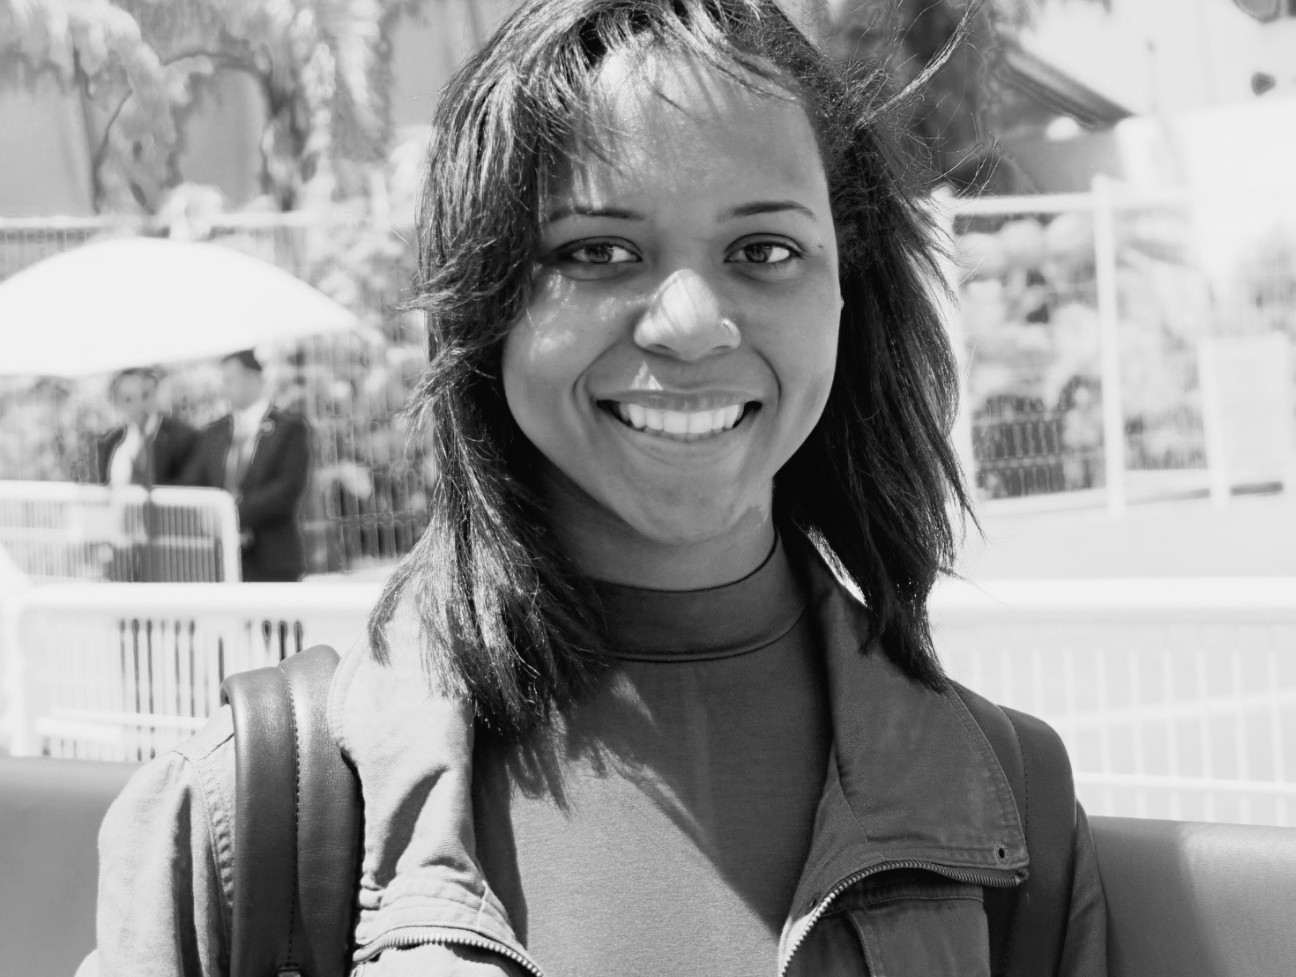
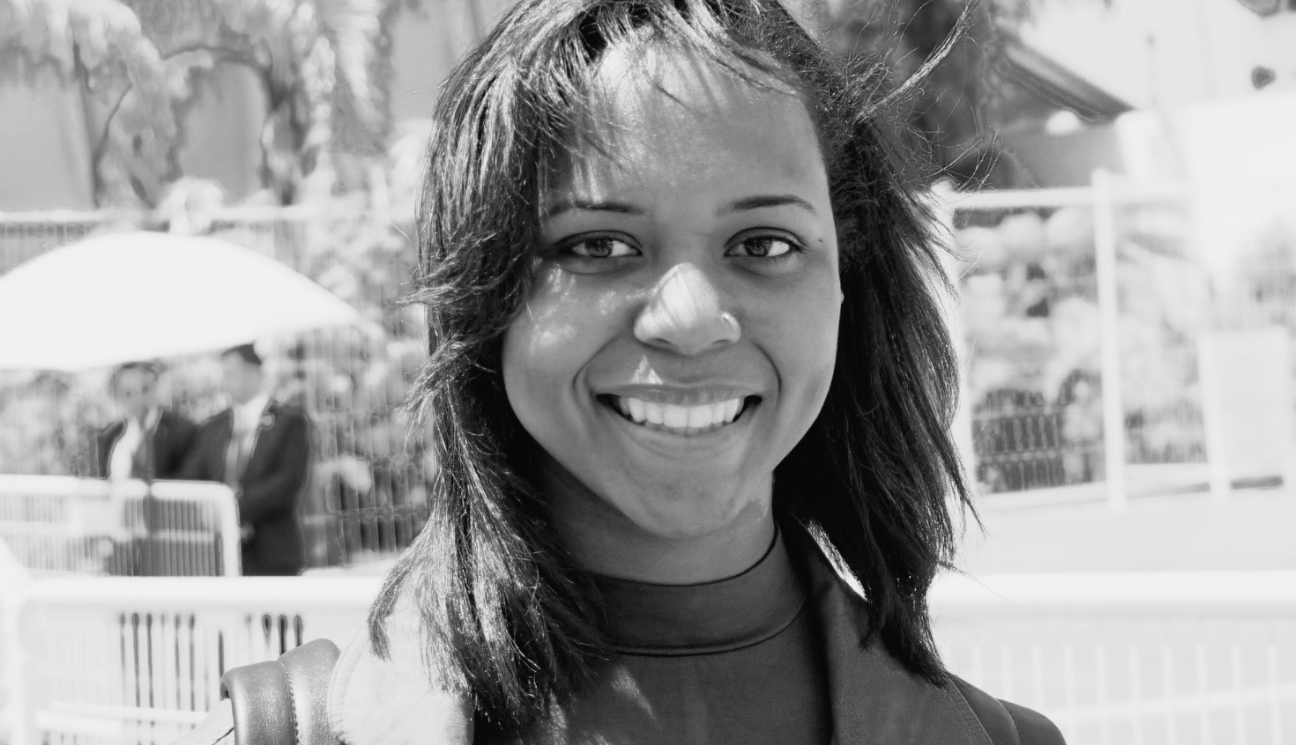
Links function, adding some content

diff --git a/html/about.html b/html/about.html
@@ -6,19 +6,25 @@
     <link href="../css/about.css" rel = "stylesheet" type="text/css">
 </head>
 <body>
+    <ul>
+        <li><a href="../html/home.html">Home</a></li>
+        <li><a href="../html/about.html">About</a></li>
+        <li><a href="../html/work.html">Porfolio</a></li>
+        <li><a href="../html/contact.html">Contact</a></li>
+
+      </ul>
 <h1>DAVINA 'DEE' WOOLEY</h1>
 <hr></hr>
 <div id="dwPhoto1">
 <img class ="dwPhoto" img src ="../images/deeWooley.png"  alt="davina wooley image" >
 </div>
 <p>Hello, and thank you for visiting my personal website. I am an artist and a programmer who enjoys creating projects that bring joy to their users. Regardless of the creative medium; programming, film, photography, or design, I try to use my skills to intrigue, inform, or assist users. 
-    I have been interested in technology since I was 3 years old when I began taking computer classes. This passion lead me to an acceptance to Cab Calloway School of the Arts where I studied Communication Arts from 6th through 8th grade, and Digital Media from 9th through 12th grade. 
-    I am both creative, technical, and business oriented.
-    For fun: I enjoy watching films, reading, traveling, playing the drums, and taking care of my dog! 
-    I am currently working toward developing additional skills relating to Mobile App Development, Program Management, UI/UX, and  After Effects and Cinema 4D Animation. I am a graduate student at the Georgia Institute of Technology studying Computer Science with a concentration in Human-Computer Interaction.
-    I am a very proud Delawarean, currently living in Atlanta, Georgia. </p>
-<p>For additional information regarding what I'm working on or learning, please refer to my Behance, GitHub, or Twitter Accounts.</p>>
-<a href="home.html">Back Home</a>
-
+    <br><br> I have been interested in technology since I was 3 years old when I began taking computer classes. This passion lead me to an acceptance to Cab Calloway School of the Arts where I studied Communication Arts from 6th through 8th grade, and Digital Media from 9th through 12th grade. 
+    <br><br> I am both creative, technical, and business oriented.
+    <br><br> <strong>For Fun:</strong> I enjoy watching films, reading, traveling, playing the drums, and taking care of my dog! 
+    <br><br> I am currently working toward developing additional skills relating to Mobile App Development, Program Management, UI/UX, and  After Effects and Cinema 4D Animation. I am a graduate student at the Georgia Institute of Technology studying Computer Science with a concentration in Human-Computer Interaction.
+    <br><br> I am a very proud Delawarean, currently living in Atlanta, Georgia. </p>
+    <br><br>For additional information regarding what I'm working on or learning, please refer to my <br> <a href="https://www.behance.net/deewoole">Behance</a>, <a href="https://github.com/deewooley">GitHub</a>, or <a href="https://twitter.com/dee_wooley">Twitter</a> Accounts.
+</p>
 </body>
 </html>

diff --git a/html/contact.html b/html/contact.html
@@ -1,0 +1,23 @@
+<!DOCTYPE html>
+<html lang = "en-US" >
+
+    <head>
+        <meta charset = "UTF-8">
+    <title>Davina Wooley Contact</title>
+    <link href="../css/contact.css" rel = "stylesheet" type="text/css">
+        </head>
+        <body>
+            <ul>
+                <li><a href="../html/home.html">Home</a></li>
+                <li><a href="../html/about.html">About</a></li>
+                <li><a href="../html/work.html">Porfolio</a></li>
+                <li><a href="../html/contact.html">Contact</a></li>
+        
+              </ul>
+            <h1>Contact</h1>
+            <p>
+                Email: dwooley6@gatech.edu
+            
+            </p>
+        </body>
+    </html>

diff --git a/html/home.html b/html/home.html
@@ -8,9 +8,10 @@
 <body>
     
     <ul>
-        <li><a href="default.asp">Home</a></li>
-        <li><a href="news.asp">About</a></li>
-        <li><a href="contact.asp">Porfolio</a></li>
+        <li><a href="../html/home.html">Home</a></li>
+        <li><a href="../html/about.html">About</a></li>
+        <li><a href="../html/work.html">Porfolio</a></li>
+        <li><a href="../html/contact.html.html">Contact</a></li>
 
       </ul>
 

diff --git a/html/work.html b/html/work.html
@@ -1,0 +1,17 @@
+<!DOCTYPE html>
+
+<html lang = "en-US">
+<head>
+    
+    </head>
+    <body>
+        <ul>
+            <li><a href="../html/home.html">Home</a></li>
+            <li><a href="../html/about.html">About</a></li>
+            <li><a href="../html/work.html">Porfolio</a></li>
+            <li><a href="../html/contact.html.html">Contact</a></li>
+    
+          </ul>
+        <h1> Portfolio </h1>
+        </body>
+</html>

diff --git a/css/about.css b/css/about.css
@@ -1,10 +1,21 @@
 body{
-background-color: wheat;
+background-color: black;
 font-family: sans-serif;
+margin-left: 5%;
+margin-right: 5%;
+color: white;
+}
+h1{
+    text-align: center;
 }
 
 .dwPhoto{
     margin-right: auto;
     margin-left: auto;
-    width:60%;
+    width:100%;
+}
+br{
+    margin-top: 50px;
+    margin-bottom: 5px;
+    line-break: auto;
 }

diff --git a/css/home.css b/css/home.css
@@ -3,8 +3,10 @@ body{
     color:black;
     font-style: normal;
     font-family: sans-serif;
+    text-align: center;
     
 }
+ul{text-align:left;}
 .socialMediaLinks {
     margin-left: auto;
     margin-right: auto;

diff --git a/css/contact.css b/css/contact.css
@@ -1,0 +1,5 @@
+body{
+    color:white;
+    background-color: black;
+    font-family: sans-serif;
+}
